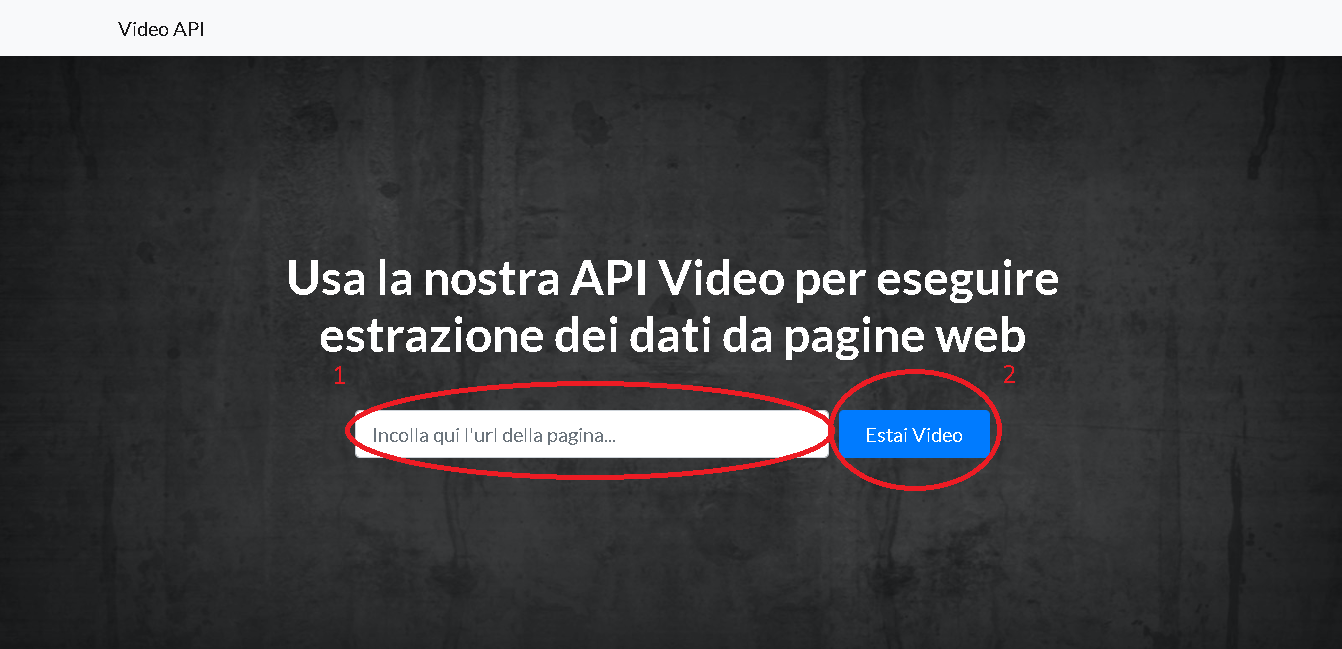
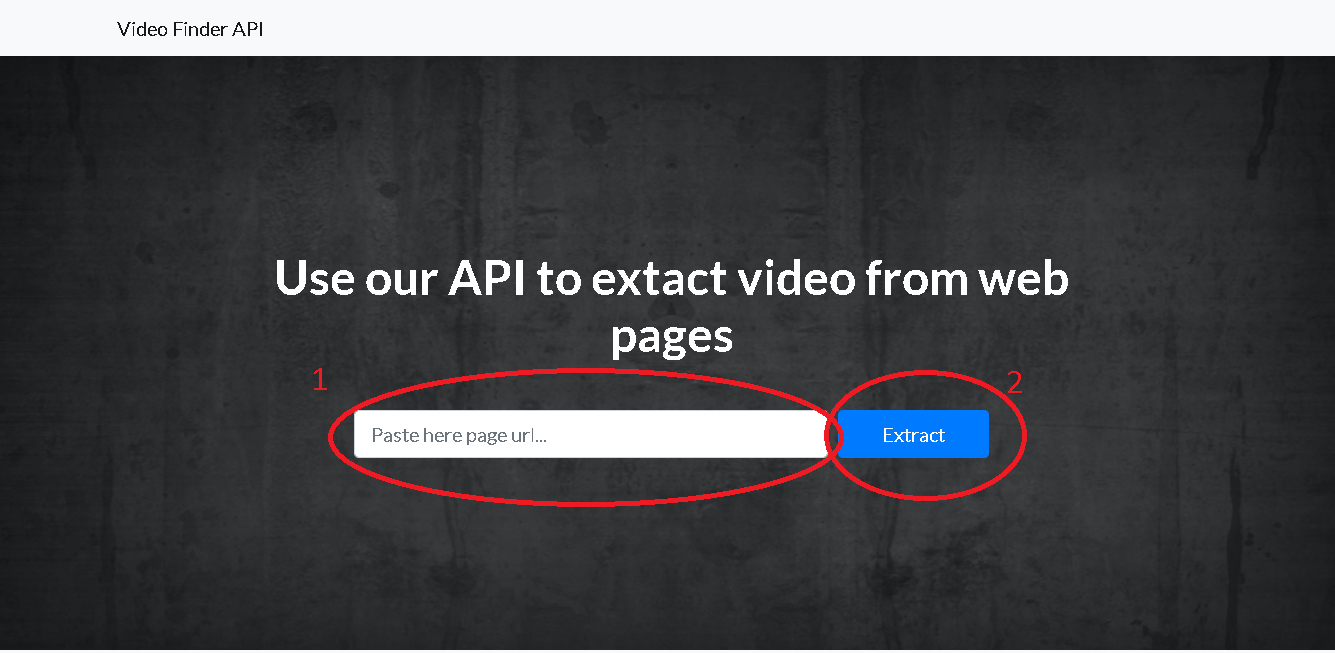
updates

diff --git a/WebContent/index.html b/WebContent/index.html
@@ -8,7 +8,7 @@
     <meta name="description" content="">
     <meta name="author" content="">
 
-    <title>Video-API</title>
+    <title>Video-Finder-API</title>
 
     <!-- Bootstrap core CSS -->
     <link href="vendor/bootstrap/css/bootstrap.min.css" rel="stylesheet">
@@ -53,16 +53,16 @@
       <div class="container">
         <div class="row">
           <div class="col-xl-9 mx-auto">
-            <h1 class="mb-5">Usa la nostra API Video per eseguire estrazione dei dati da pagine web</h1>
+            <h1 class="mb-5">Use our API to extact video from web pages</h1>
           </div>
           <div class="col-md-10 col-lg-8 col-xl-7 mx-auto">
             <form>
               <div class="form-row">
                 <div class="col-12 col-md-9 mb-2 mb-md-0">
-                  <input type="search" class="form-control form-control-lg" placeholder="Incolla qui l'url della pagina...">
+                  <input type="search" class="form-control form-control-lg" placeholder="Paste here page url...">
                 </div>
                 <div class="col-12 col-md-3">
-                  <button type="submit" class="btn btn-block btn-lg btn-primary">Estai Video</button>
+                  <button type="submit" class="btn btn-block btn-lg btn-primary">Extract</button>
                 </div>
               </div>
             </form>
